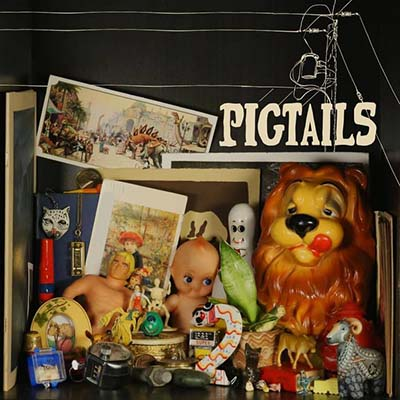
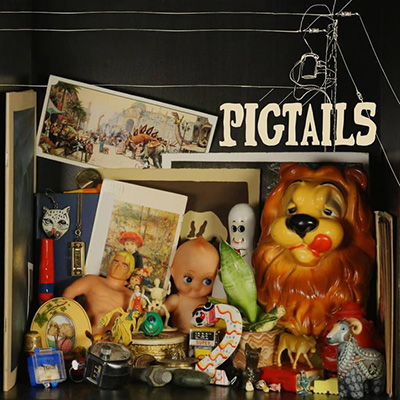
more img optimization

diff --git a/index.html b/index.html
@@ -96,7 +96,7 @@
         <link href="/artist/pigtails/album/pigtails" itemprop="url" />
         <div class="album-cover">
           <a rel="noopener" href="https://thebandpigtails.bandcamp.com/album/pigtails-2" target="_blank"><img alt="Blurry, spooky cover art"
-          src="img/album-covers/pigtails.jpg" itemprop="image" width="400" height="400"></a>
+          src="img/featured/pigtails.jpg" itemprop="image" width="400" height="400"></a>
         </div>
         <meta content="7" itemprop="numTracks">
         <meta content="Indie" itemprop="genre" >
